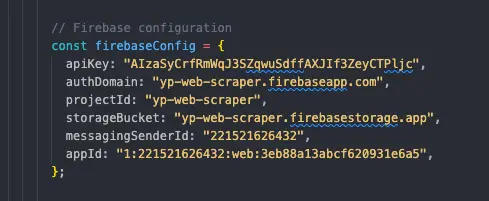
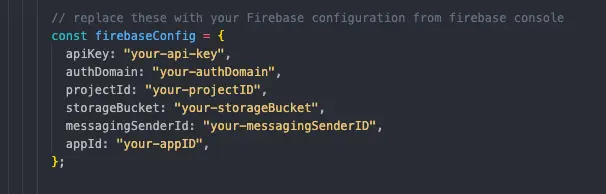
update readme and firebase config image

Changed region(s): [[0.0613, 0.0619, 0.9509, 0.8041], [0.0613, 0.8041, 0.1227, 0.8969]]

diff --git a/README.md b/README.md
@@ -65,7 +65,7 @@ This will:
 2. Enable Email/Password authentication
 3. Register a web app in your Firebase project
     - Add users manually from firebase console since we don't want sign ups via the web app
-4. Update the Firebase configuration (public keys) in:
+4. Update the Firebase configuration (these are public keys that can be safely exposed) in:
    - `public/login.html`
    - `public/index.html` (logout functionality)
 
